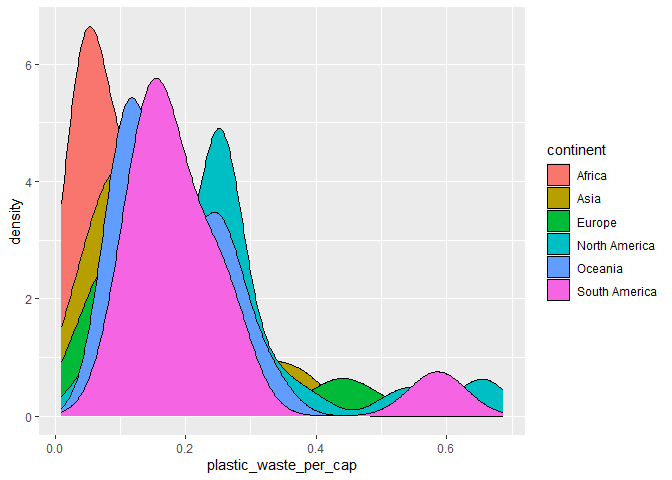
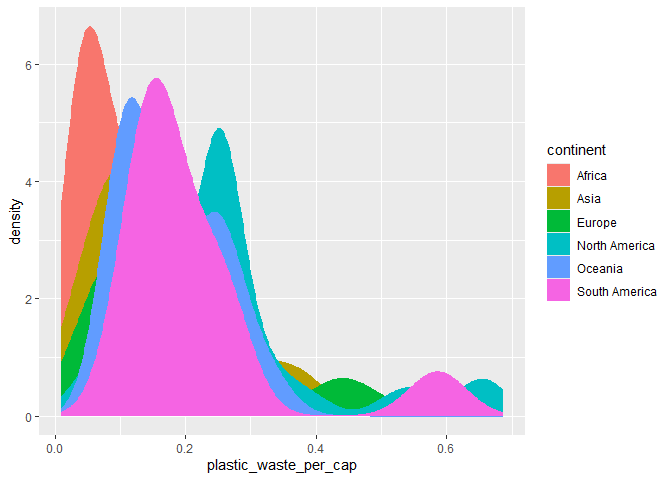
Conclusion et finalisation des autres exercices

diff --git a/lab-02.md b/lab-02.md
@@ -26,19 +26,22 @@ plastic_waste <- plastic_waste %>%
 ### Exercise 1
 
 ``` r
-ggplot(plastic_waste, aes(x=plastic_waste_per_cap))+                                              geom_histogram(binwidth = 0.2, fill ="grey")+                                                   facet_wrap(~ continent)
+ggplot(plastic_waste, aes(x=plastic_waste_per_cap))+                                        geom_histogram(binwidth = 0.2, fill ="grey")+                                              facet_wrap(~ continent)
 ```
 
 ![](lab-02_files/figure-gfm/plastic-waste-continent-1.png)<!-- -->
 
 En Amérique du Nord et en Asie, la quantité de déchets par habitant est
 plus dispersée, malgré le fait qu’il semble avoir une concentration de
-données vers 0,25. Pour l’Afrique, sa consommation semble être moins
-élevée que pour les autres continents. L’Océanie et l’Europe semblent
-avoir des distributions semblables, mais l’Océanie a probablement moins
-de pays parce que les barres sont plus basses. L’Amérique du Sud a une
-majorité de valeurs plus basses vers 0,20, donc ce continent produit
-moins de déchets plastiques que la plupart des continents.
+données vers 0,25. Pour l’Afrique, sa consommation semble être plus
+faible par habitant que pour les autres continents. L’Océanie et
+l’Europe semblent avoir des distributions semblables, mais l’Océanie a
+probablement moins de pays parce que les barres sont plus basses.
+L’Amérique du Sud a une majorité de valeurs plus basses vers 0,20, donc
+ce continent produit moins de déchets plastiques que la plupart des
+continents. Finalement, on peut conclure que l’Asie et l’Amérique du
+Nord on les distributions les plus élevées tandis que l’Afrique a la
+distribution la plus faible parmis les continents.
 
 ### Exercise 2
 
@@ -56,19 +59,19 @@ ggplot(plastic_waste, aes(x = plastic_waste_per_cap, color = continent)) +
 ![](lab-02_files/figure-gfm/plastic-waste-density-2.png)<!-- -->
 
 ``` r
-ggplot(plastic_waste, aes(x = plastic_waste_per_cap, fill = continent)) +
+ggplot(plastic_waste, aes(x = plastic_waste_per_cap, fill = continent, color = continent)) +
     geom_density()
 ```
 
 ![](lab-02_files/figure-gfm/plastic-waste-density-3.png)<!-- -->
 
 ``` r
-ggplot(plastic_waste, aes(x = plastic_waste_per_cap, fill = continent)) +   geom_density( alpha = 0.5)
+ggplot(plastic_waste, aes(x = plastic_waste_per_cap, fill = continent, color = continent )) +   geom_density( alpha = 0.5)
 ```
 
 ![](lab-02_files/figure-gfm/plastic-waste-density-4.png)<!-- -->
 
-La couleur se trouve avec aes puisque cette dernière est du maping
+La couleur se trouve avec aes puisque cette dernière est du mapping
 (détermine une propriété en fonction d’une propriété des données) tandis
 que la transparence est du setting (fixer une propriété), donc elle est
 réglé dans geomdensity.
@@ -87,35 +90,84 @@ ggplot(plastic_waste, aes(x= continent, y = plastic_waste_per_cap)) +
 Violin plot:
 
 ``` r
-# insert code here
+ggplot(plastic_waste, aes(x= continent, y = plastic_waste_per_cap)) +
+    geom_violin()
 ```
 
-Réponse à la question…
+![](lab-02_files/figure-gfm/plastic-waste-violin-1.png)<!-- -->
+
+Les violin plots permettent de visualiser la distrubution de données,
+comme les box plots, mais permettent aussi de visualiser la forme de
+cette distribution et de visualiser la densité. En d’autres termes, les
+violins plots nous permettent d’analyser la forme de la distribution et
+les box plots sont efficaces pour une analyse plus rapide ou pour voir
+les valeurs extrêmes.
 
 ### Exercise 4
 
 ``` r
-# insert code here
+ggplot(plastic_waste, aes(x= plastic_waste_per_cap, y = mismanaged_plastic_waste_per_cap, color = continent )) +
+ geom_point()
 ```
 
-Réponse à la question…
+![](lab-02_files/figure-gfm/plastic-waste-mismanaged-1.png)<!-- -->
+
+La relation entre ces deux variables est généralement linéaire ce qui
+signifie que plus qu’un pays produit de déchets plastiques, plus qu’il a
+tendance à moins bien le gérer. L’Europe et l’Amérique du Nord diverge
+de cette tendance puisqu’ils semblent bien gérer leur quantité de
+déchets malgré le fait qu’ils en génèrent beaucoup. D’un autre côté,
+c’est l’inverse pour l’Asie et l’Afrique qui ont plus de difficulté à
+les gérer même s’ils en produisent moins.
 
 ### Exercise 5
 
 ``` r
-# insert code here
+ggplot(plastic_waste, aes(x= plastic_waste_per_cap, y =total_pop )) +
+   geom_point()
 ```
+
+    ## Warning: Removed 10 rows containing missing values or values outside the scale range
+    ## (`geom_point()`).
+
+![](lab-02_files/figure-gfm/plastic-waste-population-total-1.png)<!-- -->
 
 ``` r
-# insert code here
+ggplot(plastic_waste, aes(x= plastic_waste_per_cap, y =coastal_pop )) +
+ geom_point()
 ```
 
-Réponse à la question…
+![](lab-02_files/figure-gfm/plastic-waste-population-coastal-1.png)<!-- -->
+
+Les deux graphiques se ressemblent beaucoup. Il semble avoir plus de
+personnes qui habitent sur les côtes qui produisent moins, mais
+autrement, il n’y a pas de relation plus forte que l’autre.
 
 ## Conclusion
 
 Recréez la visualisation:
 
 ``` r
-# insert code here
+plastic_waste_coastal <- plastic_waste %>% 
+  mutate(coastal_pop_prop = coastal_pop / total_pop) %>%
+  filter(plastic_waste_per_cap < 3)
+
+ggplot(plastic_waste_coastal, aes(x = coastal_pop_prop, y = plastic_waste_per_cap, color = continent)) +
+       geom_point() +                                                                                   geom_smooth(method = "lm", se = TRUE, color = "black") +
+         labs(
+                title = "Quantité de déchets plastiques vs Proportion de la population  côtière",
+                 subtitle = "Selon le continent",
+                  x = "Proportion de la population côtière (Coastal / total population)",
+               y = "Nombre de déchets plastiques par habitant",
+                color = "Continent")
 ```
+
+    ## `geom_smooth()` using formula = 'y ~ x'
+
+    ## Warning: Removed 10 rows containing non-finite outside the scale range
+    ## (`stat_smooth()`).
+
+    ## Warning: Removed 10 rows containing missing values or values outside the scale range
+    ## (`geom_point()`).
+
+![](lab-02_files/figure-gfm/recreate-viz-1.png)<!-- -->
